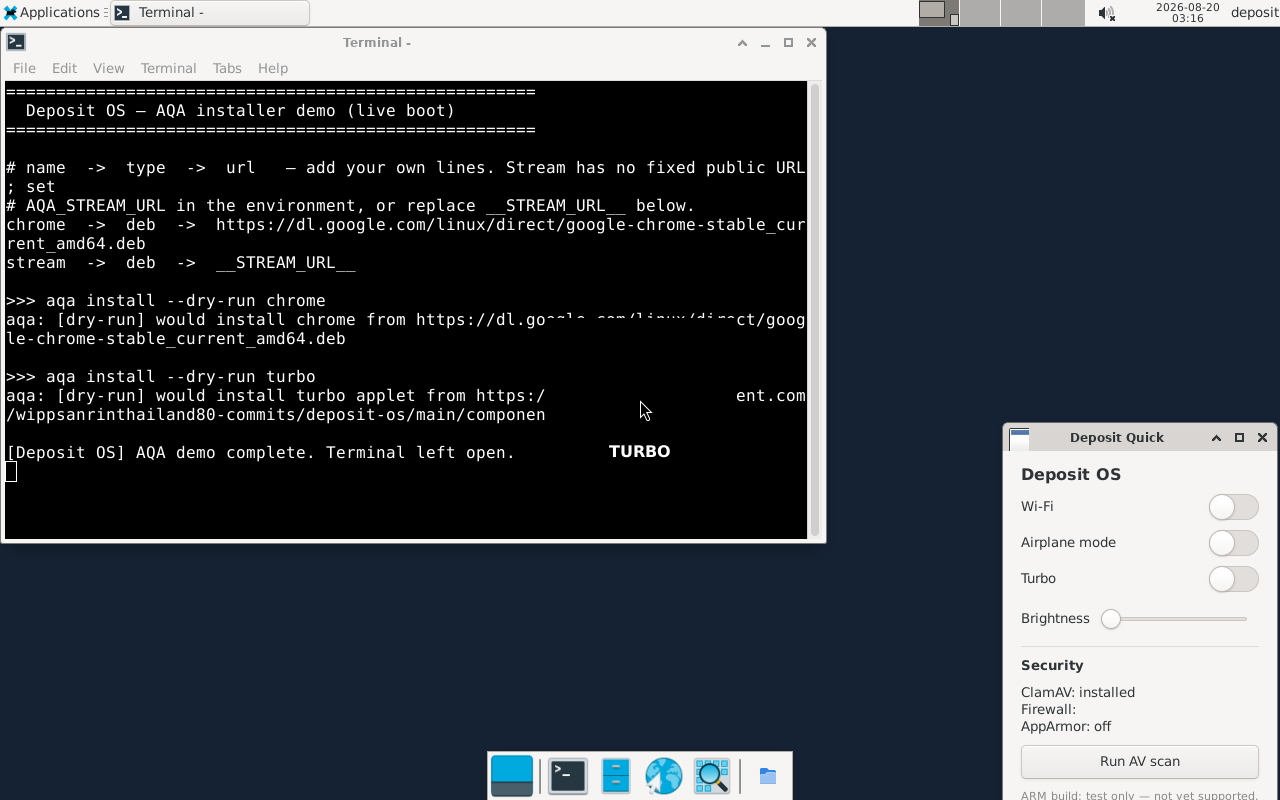
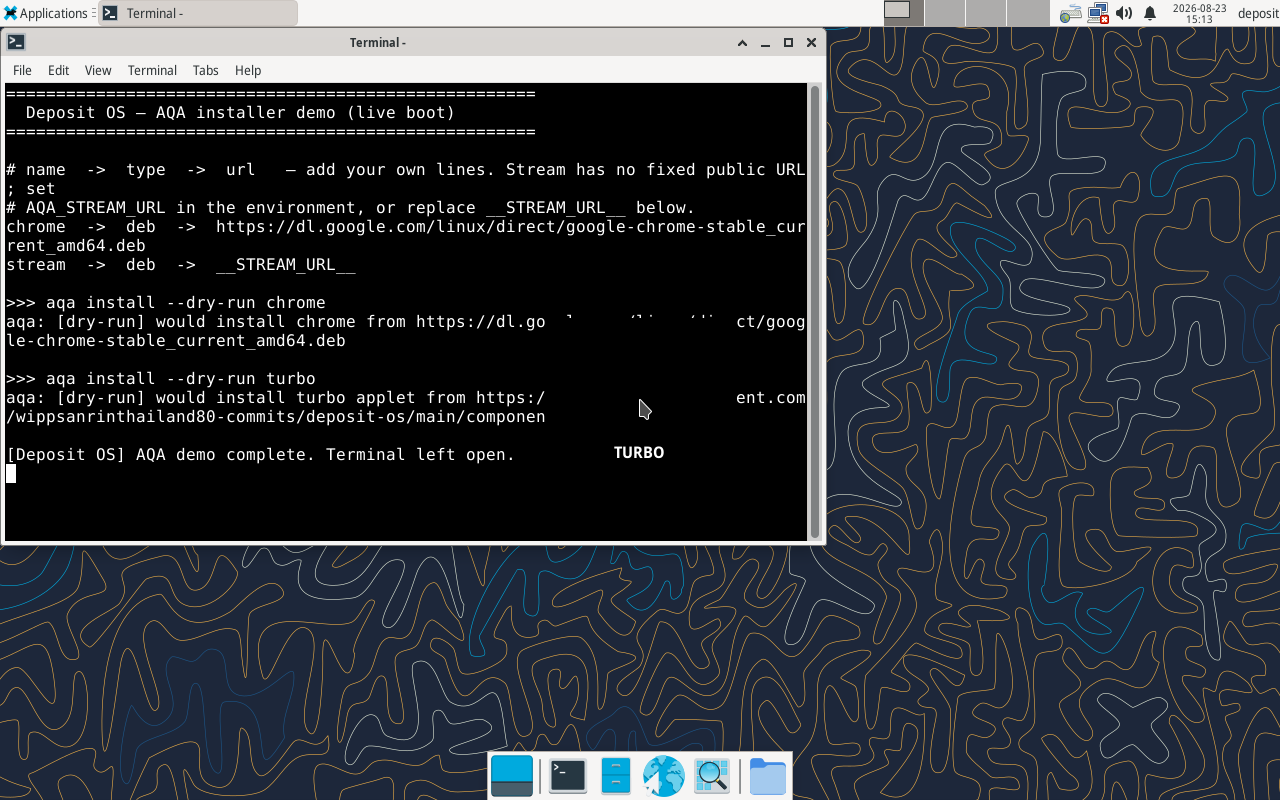
README: real screenshots committed; summary embeds downsized (1024k cap)
- docs/assets: desktop.png <- run #105 live capture (Sgr A* wallpaper
  visible), NEW thai-youtube.png <- typed-results frame; dropped stale
  boot/turbo placeholders
- README screenshots section rewritten around the committed captures +
  pointer to full-res artifacts; login-screen note
- ci.yml summary step: GitHub caps $GITHUB_STEP_SUMMARY at 1024 KB and
  run #105 hit 2729 KB. All embeds now preprocessed to 640px JPEG q60
  into /tmp/summary (typically ~500 KB total); full-res originals stay
  in the os-and-live-screenshots artifact

diff --git a/README.md b/README.md
@@ -53,11 +53,16 @@ packaging format (`.mlpds`) with the `aqa` installer.
 
 ## Screenshots
 
-| Boot screen | Desktop + quick menu | Turbo transition | `.mlpds` info | Tool demo |
-|-------------|---------------------|------------------|---------------|-----------|
-| ![boot](docs/assets/boot.png) | ![desktop](docs/assets/desktop.png) | ![turbo](docs/assets/turbo.png) | ![mlpds](docs/assets/mlpds.png) | ![demo](docs/assets/tool-demo.png) |
+Captured automatically by CI from the real running OS (QMP ground truth),
+then committed here. Full-res originals live on each Actions run.
 
-(Generated automatically in CI and embedded in each Actions run Summary.)
+| Desktop — Sagittarius A\* wallpaper | Thai typing test (`เพลงไทย` in YouTube search) | `.mlpds` info | Tool demo |
+|-------------------------------------|------------------------------------------------|---------------|-----------|
+| ![desktop](docs/assets/desktop.png) | ![thai](docs/assets/thai-youtube.png)          | ![mlpds](docs/assets/mlpds.png) | ![demo](docs/assets/tool-demo.png) |
+
+The **login screen** (Andromeda galaxy greeter) is captured on the runs that
+include it — see `login-page.png` on older run artifacts and the phone-ready
+copies published per release.
 
 ## Architecture
 
